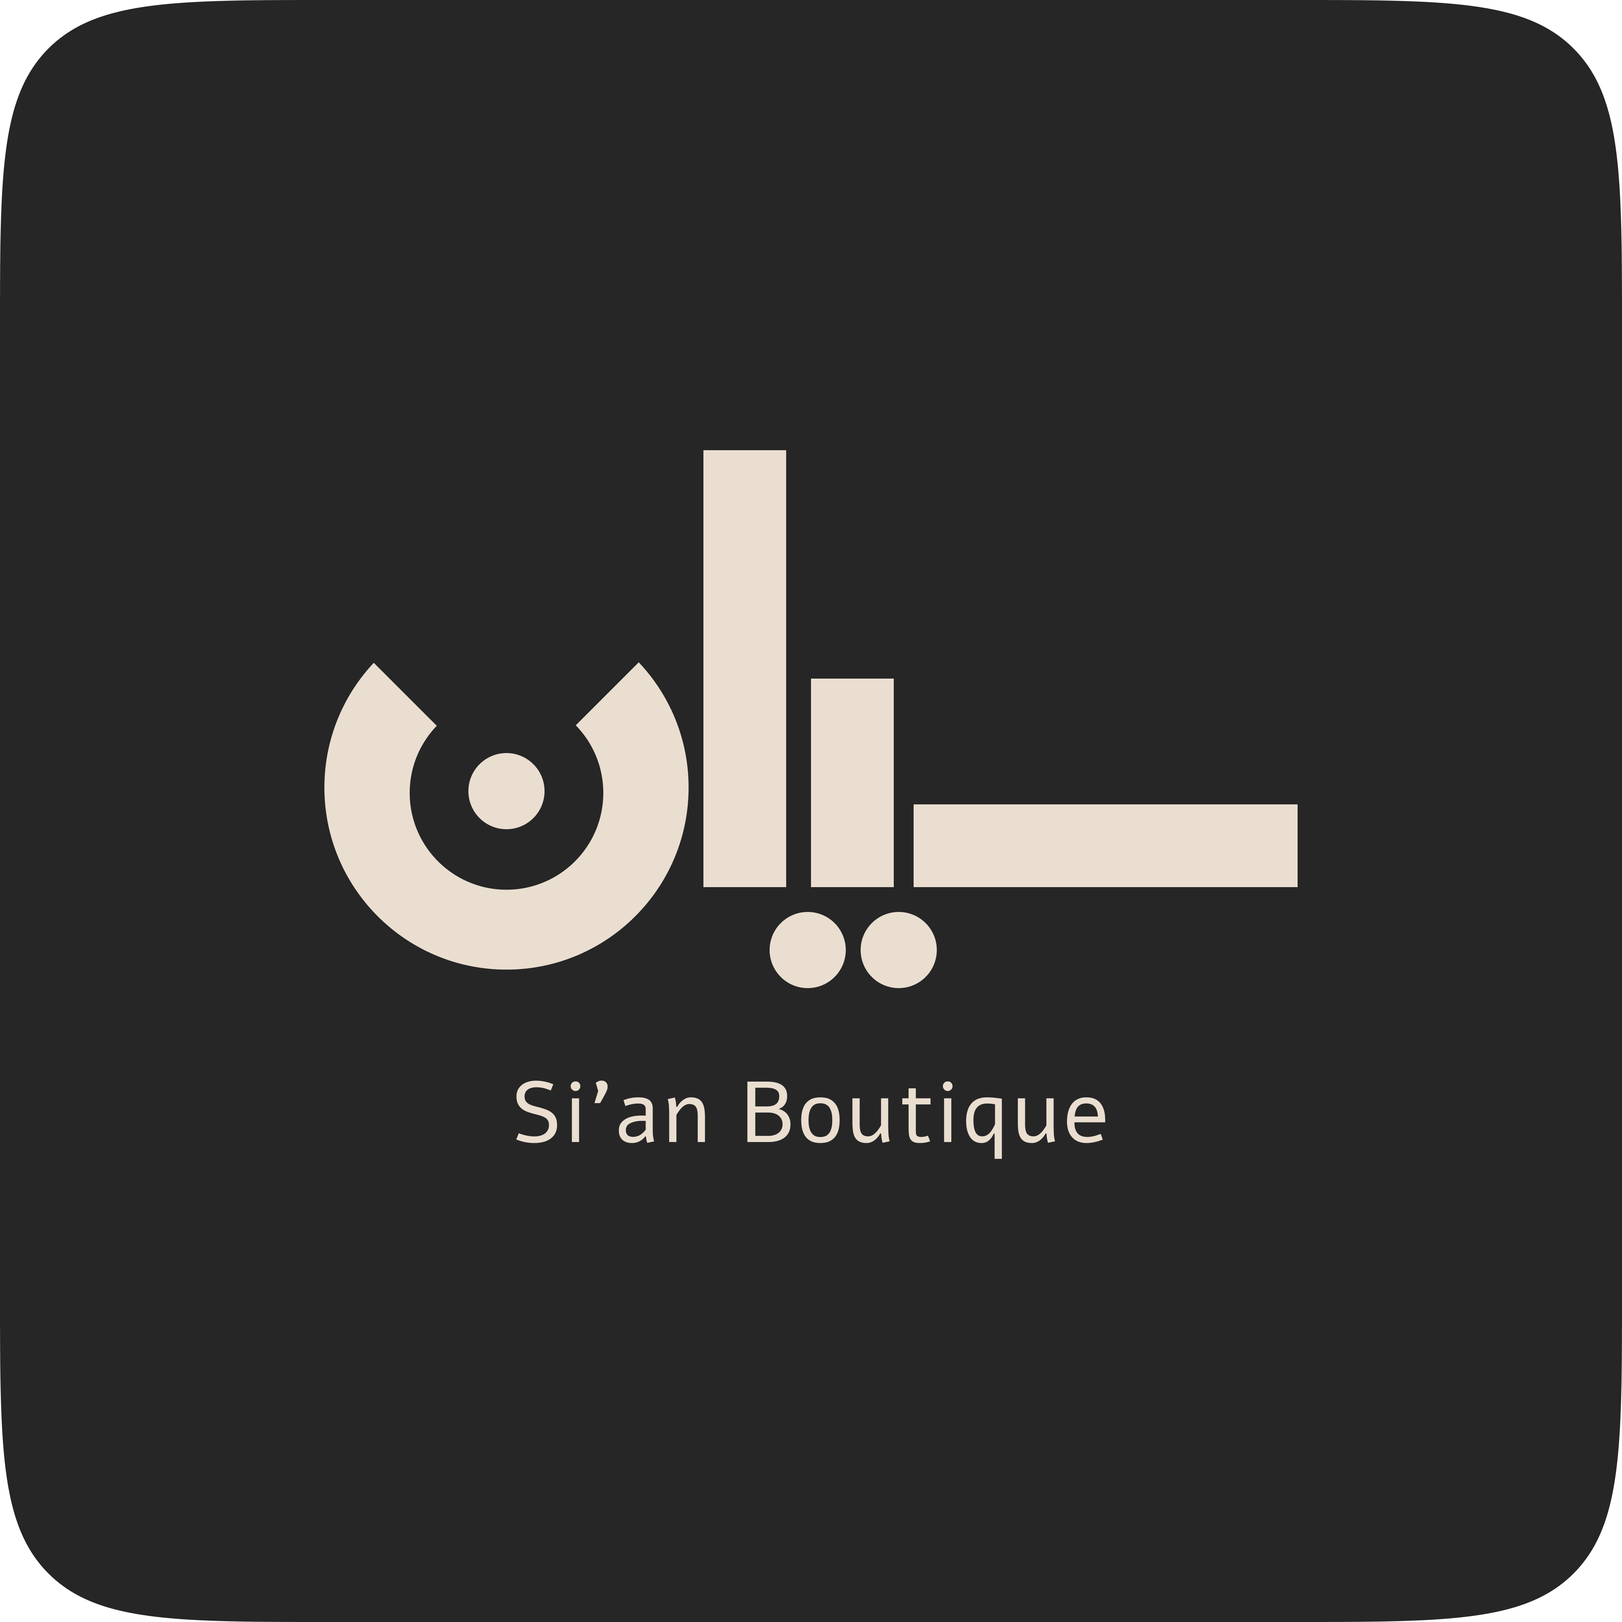
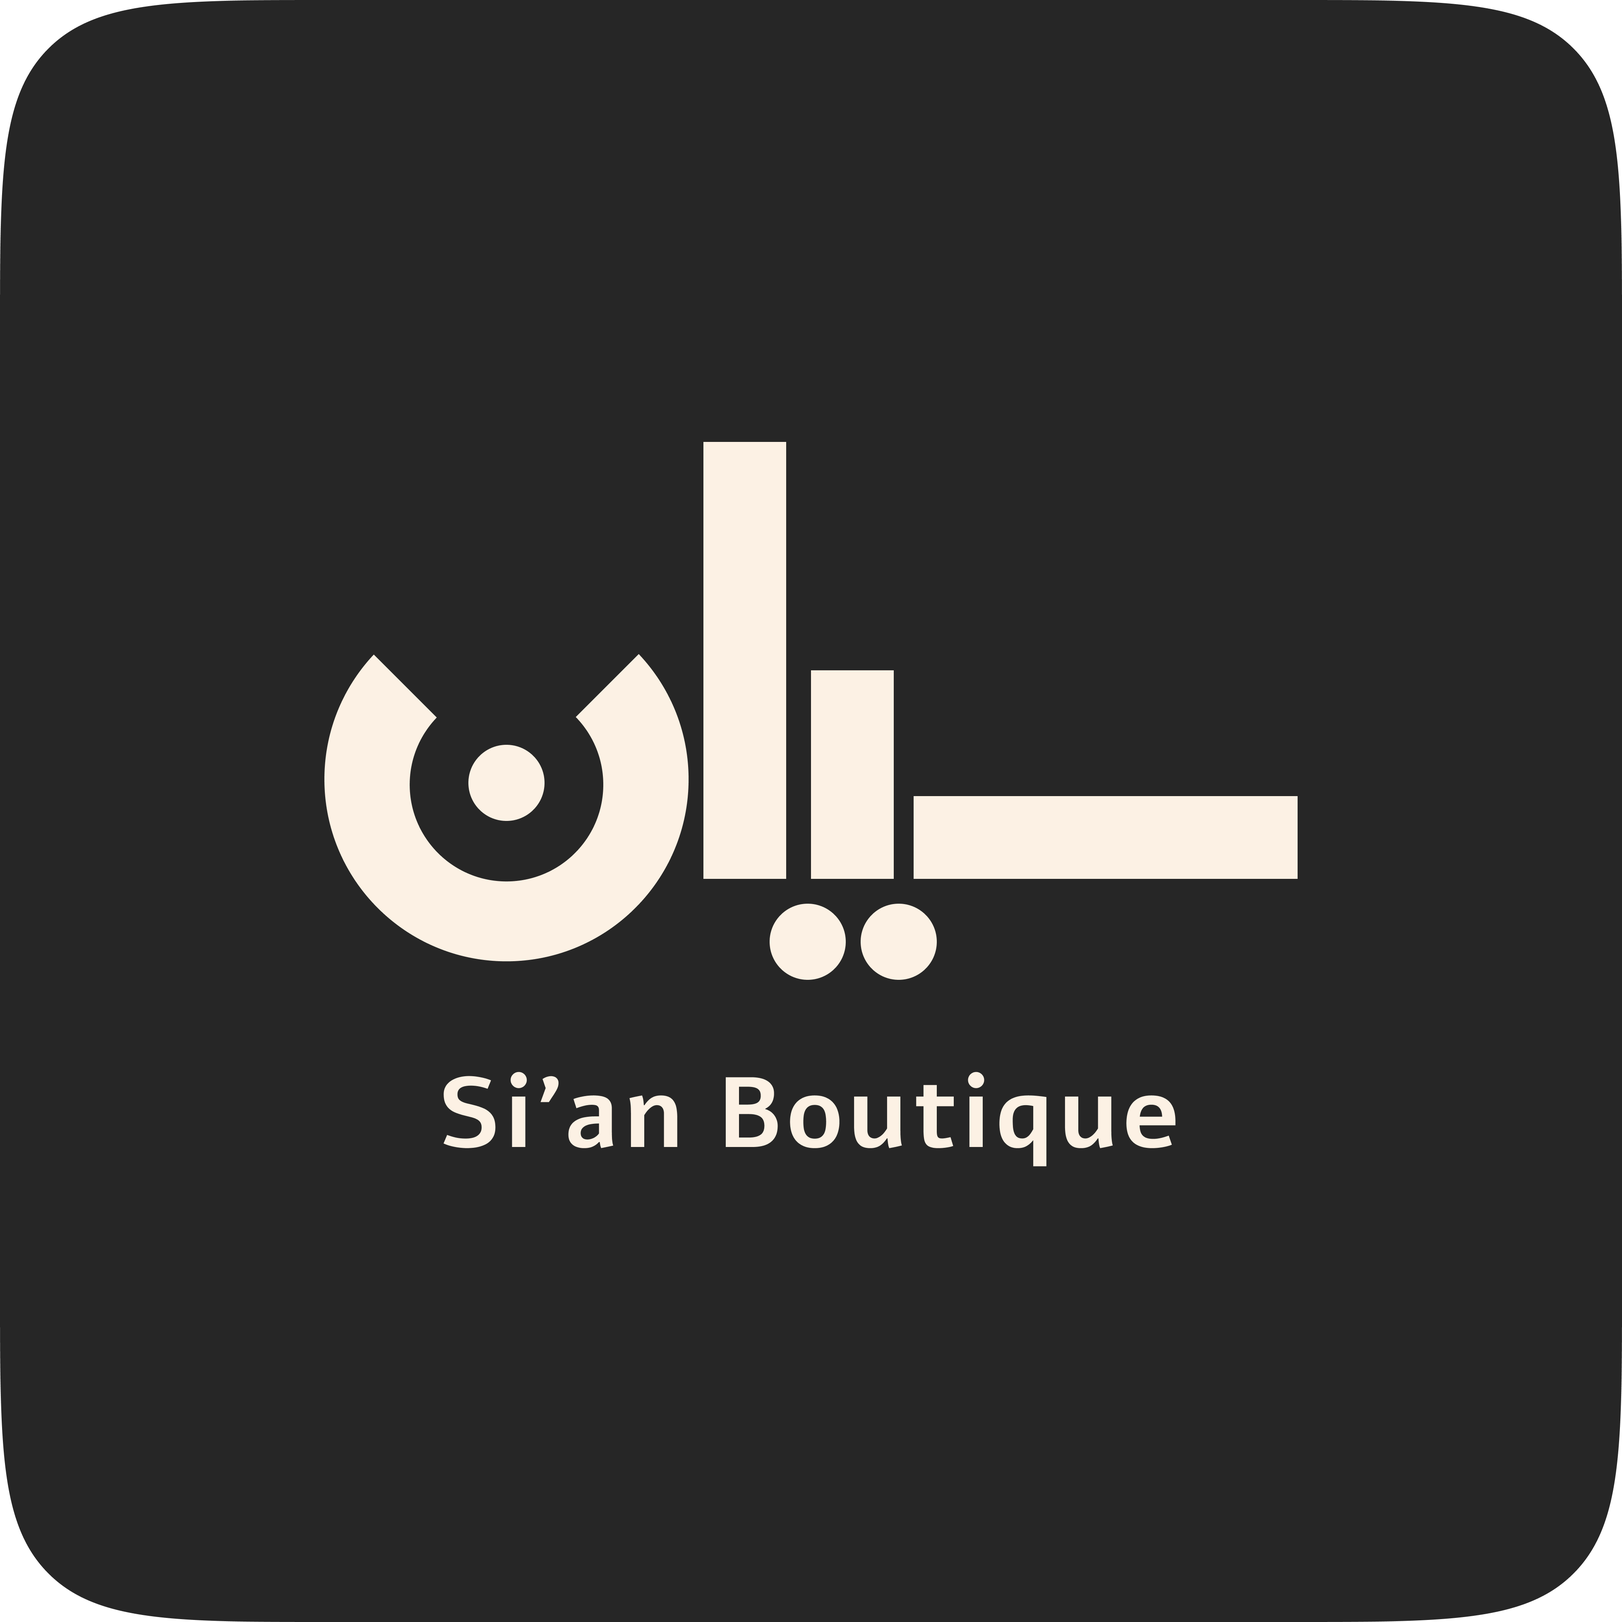
added responsive Navbar & Footer

diff --git a/src/components/Footer.jsx b/src/components/Footer.jsx
@@ -1,10 +1,109 @@
 import React from 'react';
 
 const Footer = () => {
+    const year = new Date().getFullYear();
     return (
-        <div>
-            
+        <div className='bg-secondary'>
+            <footer class="w-full max-w-[85rem] py-10 px-4 sm:px-6 lg:px-8 mx-auto ">
+                <div class="grid grid-cols-2 md:grid-cols-4 lg:grid-cols-5 gap-6 mb-10">
+                    <div class="col-span-full hidden lg:col-span-1 lg:block">
+                        <a class="flex-none text-xl font-semibold text-primary" href="/" aria-label="Brand">Si'an Boutique</a>
+                        <p class="mt-3 text-xs sm:text-sm text-secondaryV">© {year} Si-an-Boutique.com</p>
+                    </div>
+
+                    <div>
+                        <h4 class="text-xs font-semibold text-primary uppercase">Services</h4>
+
+                        <div class="mt-3 grid space-y-3 text-sm">
+                            <p><a class="inline-flex gap-x-2 text-secondaryV hover:text-primaryV" href="#">Men's Clothing</a></p>
+                            <p><a class="inline-flex gap-x-2 text-secondaryV hover:text-primaryV" href="#">Women's Clothing</a></p>
+                            <p><a class="inline-flex gap-x-2 text-secondaryV hover:text-primaryV" href="#">Kids' Clothing</a></p>
+                            <p><a class="inline-flex gap-x-2 text-secondaryV hover:text-primaryV" href="#">Best Sellers</a></p>
+                            <p><a class="inline-flex gap-x-2 text-secondaryV hover:text-primaryV" href="#">Exclusive Drops</a></p>
+                            <p><a class="inline-flex gap-x-2 text-secondaryV hover:text-primaryV" href="#">Trusted Payments</a></p>
+                        </div>
+                    </div>
+
+                    <div>
+                        <h4 class="text-xs font-semibold text-primary uppercase ">About</h4>
+
+                        <div class="mt-3 grid space-y-3 text-sm">
+                            <p><a class="inline-flex gap-x-2 text-secondaryV hover:text-primaryV" href="#">About us</a></p>
+                            <p><a class="inline-flex gap-x-2 text-secondaryV hover:text-primaryV" href="#">Blog</a></p>
+                            <p><a class="inline-flex gap-x-2 text-secondaryV hover:text-primaryV" href="#">Our Story</a></p>
+                            <p><a class="inline-flex gap-x-2 text-secondaryV hover:text-primaryV" href="#">Customers</a></p>
+                            <p><a class="inline-flex gap-x-2 text-secondaryV hover:text-primaryV" href="#">Newsroom</a></p>
+                            <p><a class="inline-flex gap-x-2 text-secondaryV hover:text-primaryV" href="#">Be Our Partner</a></p>
+                        </div>
+                    </div>
+
+                    <div>
+                        <h4 class="text-xs font-semibold text-primary uppercase ">Features</h4>
+
+                        <div class="mt-3 grid space-y-3 text-sm">
+                            <p><a class="inline-flex gap-x-2 text-secondaryV hover:text-primaryV" href="#">Seasonal Collections</a></p>
+                            <p><a class="inline-flex gap-x-2 text-secondaryV hover:text-primaryV" href="#">Holiday Picks</a></p>
+                            <p><a class="inline-flex gap-x-2 text-secondaryV hover:text-primaryV" href="#">Limited Edition</a></p>
+                            <p><a class="inline-flex gap-x-2 text-secondaryV hover:text-primaryV" href="#">Fashion Trends</a></p>
+                            <p><a class="inline-flex gap-x-2 text-secondaryV hover:text-primaryV" href="#">Occasion Wear</a></p>
+                            <p><a class="inline-flex gap-x-2 text-secondaryV hover:text-primaryV" href="#">Size Guide</a></p>
+                        </div>
+                    </div>
+
+                    <div>
+                        <h4 class="text-xs font-semibold text-primary uppercase ">Reviews</h4>
+
+                        <div class="mt-3 grid space-y-3 text-sm">
+                            <p><a class="inline-flex gap-x-2 text-secondaryV hover:text-primaryV" href="#">Testimonials</a></p>
+                            <p><a class="inline-flex gap-x-2 text-secondaryV hover:text-primaryV" href="#">Trusted Companies</a></p>
+                            <p><a class="inline-flex gap-x-2 text-secondaryV hover:text-primaryV" href="#">Top Customers</a> <span class="inline text-primaryV">— New</span></p>
+                        </div>
+
+                        <h4 class="mt-7 text-xs font-semibold text-primary uppercase ">Privacy</h4>
+
+                        <div class="mt-3 grid space-y-3 text-sm">
+                            <p><a class="inline-flex gap-x-2 text-secondaryV hover:text-primaryV" href="#">Privacy & Policies</a></p>
+                            <p><a class="inline-flex gap-x-2 text-secondaryV hover:text-primaryV" href="#">Terms & Conditions</a></p>
+                            <p><a class="inline-flex gap-x-2 text-secondaryV hover:text-primaryV" href="#">Shipping & Returns</a></p>
+                        </div>
+                    </div>
+                </div>
+
+                <div class="pt-5 mt-5 border-t border-gray-600">
+                    <div class="sm:flex sm:justify-between sm:items-center">
+                        <div class="flex items-center gap-x-3">
+
+                            <div class="space-x-4 text-sm ms-4">
+                                <a class="inline-flex gap-x-2 text-secondaryV hover:text-primaryV " href="#">Terms</a>
+                                <a class="inline-flex gap-x-2 text-secondaryV hover:text-primaryV " href="#">Privacy</a>
+                                <a class="inline-flex gap-x-2 text-secondaryV hover:text-primaryV " href="#">Status</a>
+                            </div>
+                        </div>
+
+                        <div class="flex justify-between items-center mt-5">
+                            <div class="mt-3 sm:hidden">
+                                <a class="flex-none text-xl font-semibold text-primary" href="/" aria-label="Brand">Si'an Boutique</a>
+                                <p class="mt-3 text-xs sm:text-sm text-secondaryV">© {year} Si-an-Boutique.com</p>
+                            </div>
+
+                            <div class="space-x-4">
+                                <a class="inline-block text-secondaryV hover:text-primaryV" target='_blank' href="https://github.com/rayhanrakib28">
+                                    <svg class="flex-shrink-0 w-4 h-4" xmlns="http://www.w3.org/2000/svg" width="16" height="16" fill="currentColor" viewBox="0 0 16 16">
+                                        <path d="M5.026 15c6.038 0 9.341-5.003 9.341-9.334 0-.14 0-.282-.006-.422A6.685 6.685 0 0 0 16 3.542a6.658 6.658 0 0 1-1.889.518 3.301 3.301 0 0 0 1.447-1.817 6.533 6.533 0 0 1-2.087.793A3.286 3.286 0 0 0 7.875 6.03a9.325 9.325 0 0 1-6.767-3.429 3.289 3.289 0 0 0 1.018 4.382A3.323 3.323 0 0 1 .64 6.575v.045a3.288 3.288 0 0 0 2.632 3.218 3.203 3.203 0 0 1-.865.115 3.23 3.23 0 0 1-.614-.057 3.283 3.283 0 0 0 3.067 2.277A6.588 6.588 0 0 1 .78 13.58a6.32 6.32 0 0 1-.78-.045A9.344 9.344 0 0 0 5.026 15z" />
+                                    </svg>
+                                </a>
+                                <a class="inline-block text-secondaryV hover:text-primaryV" target='_blank' href="https://github.com/rayhanrakib28">
+                                    <svg class="flex-shrink-0 w-4 h-4" xmlns="http://www.w3.org/2000/svg" width="16" height="16" fill="currentColor" viewBox="0 0 16 16">
+                                        <path d="M8 0C3.58 0 0 3.58 0 8c0 3.54 2.29 6.53 5.47 7.59.4.07.55-.17.55-.38 0-.19-.01-.82-.01-1.49-2.01.37-2.53-.49-2.69-.94-.09-.23-.48-.94-.82-1.13-.28-.15-.68-.52-.01-.53.63-.01 1.08.58 1.23.82.72 1.21 1.87.87 2.33.66.07-.52.28-.87.51-1.07-1.78-.2-3.64-.89-3.64-3.95 0-.87.31-1.59.82-2.15-.08-.2-.36-1.02.08-2.12 0 0 .67-.21 2.2.82.64-.18 1.32-.27 2-.27.68 0 1.36.09 2 .27 1.53-1.04 2.2-.82 2.2-.82.44 1.1.16 1.92.08 2.12.51.56.82 1.27.82 2.15 0 3.07-1.87 3.75-3.65 3.95.29.25.54.73.54 1.48 0 1.07-.01 1.93-.01 2.2 0 .21.15.46.55.38A8.012 8.012 0 0 0 16 8c0-4.42-3.58-8-8-8z" />
+                                    </svg>
+                                </a>
+                            </div>
+                        </div>
+                    </div>
+                </div>
+            </footer>
         </div>
+
     );
 };
 

diff --git a/src/components/Nav.jsx b/src/components/Nav.jsx
@@ -1,11 +1,140 @@
-import React from 'react';
+import React, { useEffect, useState } from 'react';
+import { NavLink } from 'react-router-dom';
 
 const Nav = () => {
+    const [scrollY, setScrollY] = useState(false);
+    useEffect(() => {
+        window.addEventListener("scroll", isScrollY);
+
+        return () => {
+            window.removeEventListener("scroll", isScrollY);
+        };
+    }, []);
+    const isScrollY = () => {
+        window.scrollY > 0 ? setScrollY(true) : setScrollY(false)
+    }
+
+    const navlinks = <>
+        <li>
+            <NavLink
+                to="/"
+                className={({ isActive, isPending }) =>
+                    isPending ? "pending" : isActive ? " text-primaryV " : ""
+                }
+            >
+                home
+            </NavLink>
+        </li>
+        <li>
+            <NavLink
+                to="/shop"
+                className={({ isActive, isPending }) =>
+                    isPending ? "pending" : isActive ? "text-primaryV " : ""
+                }
+            >
+                shop
+            </NavLink>
+        </li>
+        <li>
+            <NavLink
+                to="/blog"
+                className={({ isActive, isPending }) =>
+                    isPending ? "pending" : isActive ? "text-primaryV " : ""
+                }
+            >
+                Blog
+            </NavLink>
+        </li>
+        <li>
+            <NavLink
+                to="/offer"
+                className={({ isActive, isPending }) =>
+                    isPending ? "pending" : isActive ? "text-primaryV " : ""
+                }
+            >
+                Sale %
+            </NavLink>
+        </li>
+    </>
+
+
+
     return (
         <div>
-            
-        </div>
+            <div className={scrollY ? "bg-primary hidden lg:block py-2 opacity-0 transition-all duration-700" : "bg-primary hidden lg:block py-2"}>
+                <div className="container mx-auto">
+                    <div className='flex justify-between items-center min-h-10 px-6'>
+                        <div className='flex items-center w-48 justify-between'>
+                            <svg width="17" height="14" viewBox="0 0 17 14" xmlns="http://www.w3.org/2000/svg">
+                                <path d="M11.2273 9.66667V1H1V9.66667H11.2273ZM11.2273 9.66667H16V6.33333L13.9545 4.33333H11.2273V9.66667ZM5.77273 11.3333C5.77273 12.2538 5.00958 13 4.06818 13C3.12679 13 2.36364 12.2538 2.36364 11.3333C2.36364 10.4129 3.12679 9.66667 4.06818 9.66667C5.00958 9.66667 5.77273 10.4129 5.77273 11.3333ZM14.6364 11.3333C14.6364 12.2538 13.8732 13 12.9318 13C11.9904 13 11.2273 12.2538 11.2273 11.3333C11.2273 10.4129 11.9904 9.66667 12.9318 9.66667C13.8732 9.66667 14.6364 10.4129 14.6364 11.3333Z" fill="none" stroke="currentColor" stroke-width="1.1" stroke-linecap="round" stroke-linejoin="round"></path>
+                            </svg>
+                            <h3 className='font-medium text-sm'>FREE SHIPPING OVER $100</h3>
+                        </div>
+                        <div className='flex justify-between items-center w-52 font-medium text-sm'>
+                            <h3>Shipping</h3>
+                            <h3>FAQ</h3>
+                            <h3>Contact</h3>
+                        </div>
+                    </div>
+                </div>
+            </div>
+
+            <div className={scrollY ? "bg-white/70 backdrop-blur-md shadow-md fixed top-0 left-0 right-0  z-50 transition-all duration-700" : "z-50 py-1 bg-white"}>
+                <div className="navbar container mx-auto">
+                    <div className="navbar-start">
+                        <div className="drawer z-40">
+                            <input id="my-drawer-3" type="checkbox" className="drawer-toggle" />
+                            <div className="drawer-content flex flex-col">
+                                <div className="w-full navbar">
+                                    <div className="flex-none lg:hidden mr-3">
+                                        <label htmlFor="my-drawer-3" aria-label="open sidebar" className="btn btn-square btn-ghost">
+                                            <svg xmlns="http://www.w3.org/2000/svg" fill="none" viewBox="0 0 24 24" className="inline-block w-6 h-6 stroke-current"><path strokeLinecap="round" strokeLinejoin="round" strokeWidth="2" d="M4 6h16M4 12h16M4 18h16"></path></svg>
+                                        </label>
+                                    </div>
+
+                                    <a className="w-40"><img src="/Si’an Boutique.png" alt="" /></a>
+
+                                </div>
+                            </div>
+                            <div className="drawer-side">
+                                <label htmlFor="my-drawer-3" aria-label="close sidebar" className="drawer-overlay"></label>
+                                <ul className="menu flex gap-3 capitalize font-semibold text-primary p-4 w-72 min-h-full bg-secondary pt-10">
+                                    {navlinks}
+                                </ul>
+                            </div>
+                        </div>
+                    </div>
+                    <div className="navbar-center hidden lg:flex">
+                        <ul className="flex gap-8 capitalize font-medium leading-4 text-secondary">
+                            {navlinks}
+                        </ul>
+                    </div>
+                    <div className="navbar-end">
+                        <button className="btn btn-ghost btn-circle">
+                            <svg xmlns="http://www.w3.org/2000/svg" width="20" height="20" fill="none" viewBox="0 0 24 24" stroke="currentColor"><path strokeLinecap="round" strokeLinejoin="round" strokeWidth="2" d="M21 21l-6-6m2-5a7 7 0 11-14 0 7 7 0 0114 0z" /></svg>
+                        </button>
+                        <button className="btn btn-ghost btn-circle">
+                            <svg aria-hidden="true" role="img" focusable="false" width="20" height="20" viewBox="0 0 24 24" xmlns="http://www.w3.org/2000/svg"> <path d="M21.9353 20.0337L20.7493 8.51772C20.7003 8.0402 20.2981 7.67725 19.8181 7.67725H4.21338C3.73464 7.67725 3.33264 8.03898 3.28239 8.51523L2.06458 20.0368C1.96408 21.0424 2.29928 22.0529 2.98399 22.8097C3.66874 23.566 4.63999 24.0001 5.64897 24.0001H18.3827C19.387 24.0001 20.3492 23.5747 21.0214 22.8322C21.7031 22.081 22.0361 21.0623 21.9353 20.0337ZM19.6348 21.5748C19.3115 21.9312 18.8668 22.1275 18.3827 22.1275H5.6493C5.16836 22.1275 4.70303 21.9181 4.37252 21.553C4.042 21.1878 3.88005 20.7031 3.92749 20.2284L5.056 9.55014H18.9732L20.0724 20.2216C20.1223 20.7281 19.9666 21.2087 19.6348 21.5748Z" fill="currentColor"></path> <path d="M12.1717 0C9.21181 0 6.80365 2.40811 6.80365 5.36803V8.6138H8.67622V5.36803C8.67622 3.44053 10.2442 1.87256 12.1717 1.87256C14.0992 1.87256 15.6674 3.44053 15.6674 5.36803V8.6138H17.5397V5.36803C17.5397 2.40811 15.1316 0 12.1717 0Z" fill="currentColor"></path> </svg>
+                        </button>
+                        <button className="btn btn-ghost btn-circle" onClick={() => document.getElementById('my_modal_3').showModal()}><svg aria-hidden="true" role="img" focusable="false" xmlns="http://www.w3.org/2000/svg" width="20" height="20" viewBox="0 0 24 24" fill="none" stroke="currentColor" stroke-width="2" stroke-linecap="round" stroke-linejoin="round"><path d="M20 21v-2a4 4 0 0 0-4-4H8a4 4 0 0 0-4 4v2"></path><circle cx="12" cy="7" r="4"></circle></svg></button>
+                        <dialog id="my_modal_3" className="modal">
+                            <div className="modal-box">
+                                <form method="dialog">
+                                    <button className="btn btn-sm btn-circle btn-ghost absolute right-2 top-2">✕</button>
+                                </form>
+                                <div>
+                                    <h3 className="font-bold text-lg">Hello!</h3>
+                                    <p className="py-4">Press ESC key or click on ✕ button to close</p>
+                                </div>
+                            </div>
+                        </dialog>
+                    </div>
+                </div>
+            </div>
+        </div >
+
     );
 };
+
 
 export default Nav;

diff --git a/tailwind.config.js b/tailwind.config.js
@@ -5,7 +5,20 @@ export default {
     "./src/**/*.{js,ts,jsx,tsx}",
   ],
   theme: {
-    extend: {},
+    extend: {
+      colors: {
+        primary: '#f5f5f5',
+        primaryV: '#ff6f61',
+        secondary: '#1f1f1f',
+        black: '#111111',
+        gray: '##525252',
+        secondaryV: '#FCF1E4',
+        accent: '#6464DD',
+      }
+    },
+  },
+  daisyui: {
+    themes: ["pastel"],
   },
   plugins: [require("daisyui")],
 }

diff --git a/src/index.css b/src/index.css
@@ -1,3 +1,10 @@
 @tailwind base;
 @tailwind components;
 @tailwind utilities;
+
+/* Google Fonts : font-family: 'Baloo Da 2', sans-serif; */
+@import url('https://fonts.googleapis.com/css2?family=Baloo+Da+2:wght@400;500;600;700;800&display=swap');
+
+* {
+    font-family: 'Baloo Da 2', sans-serif;
+}

diff --git a/src/utils/Layout.jsx b/src/utils/Layout.jsx
@@ -5,7 +5,7 @@ import { Outlet } from 'react-router-dom';
 
 const Layout = () => {
     return (
-        <div>
+        <div className='scroll-smooth'>
             <Nav></Nav>
             <Outlet />
             <Footer></Footer>

diff --git a/src/pages/Home/Home.jsx b/src/pages/Home/Home.jsx
@@ -1,9 +1,10 @@
 import React from 'react';
+import Banner from './Banner';
 
 const Home = () => {
     return (
         <div>
-            <h2>this is home</h2>
+            <Banner></Banner>
         </div>
     );
 };

diff --git a/src/pages/Home/Banner.jsx b/src/pages/Home/Banner.jsx
@@ -1,0 +1,11 @@
+import React from 'react';
+
+const Banner = () => {
+    return (
+        <div className=''>
+            
+        </div>
+    );
+};
+
+export default Banner;
